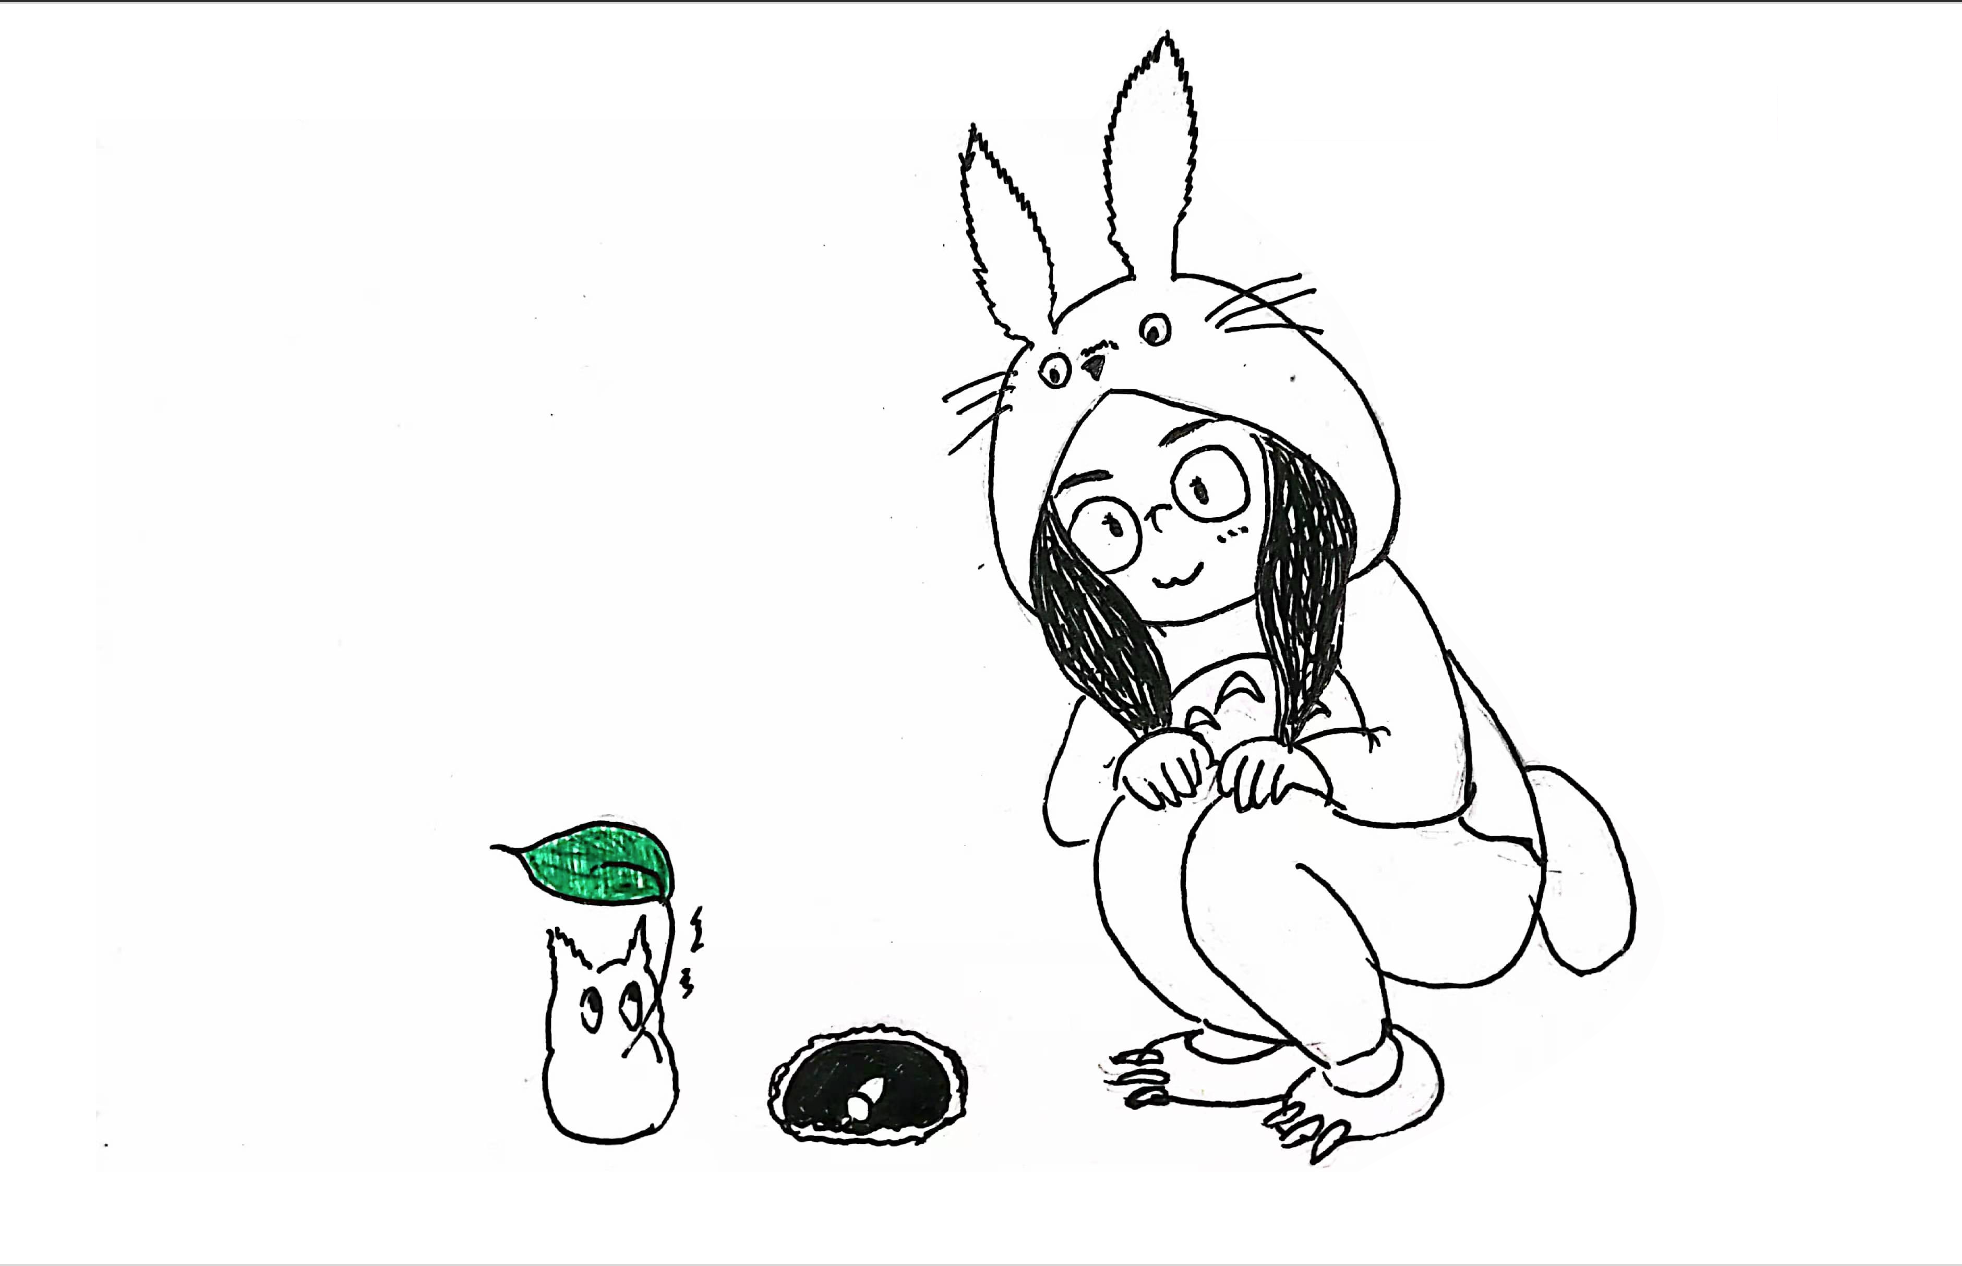
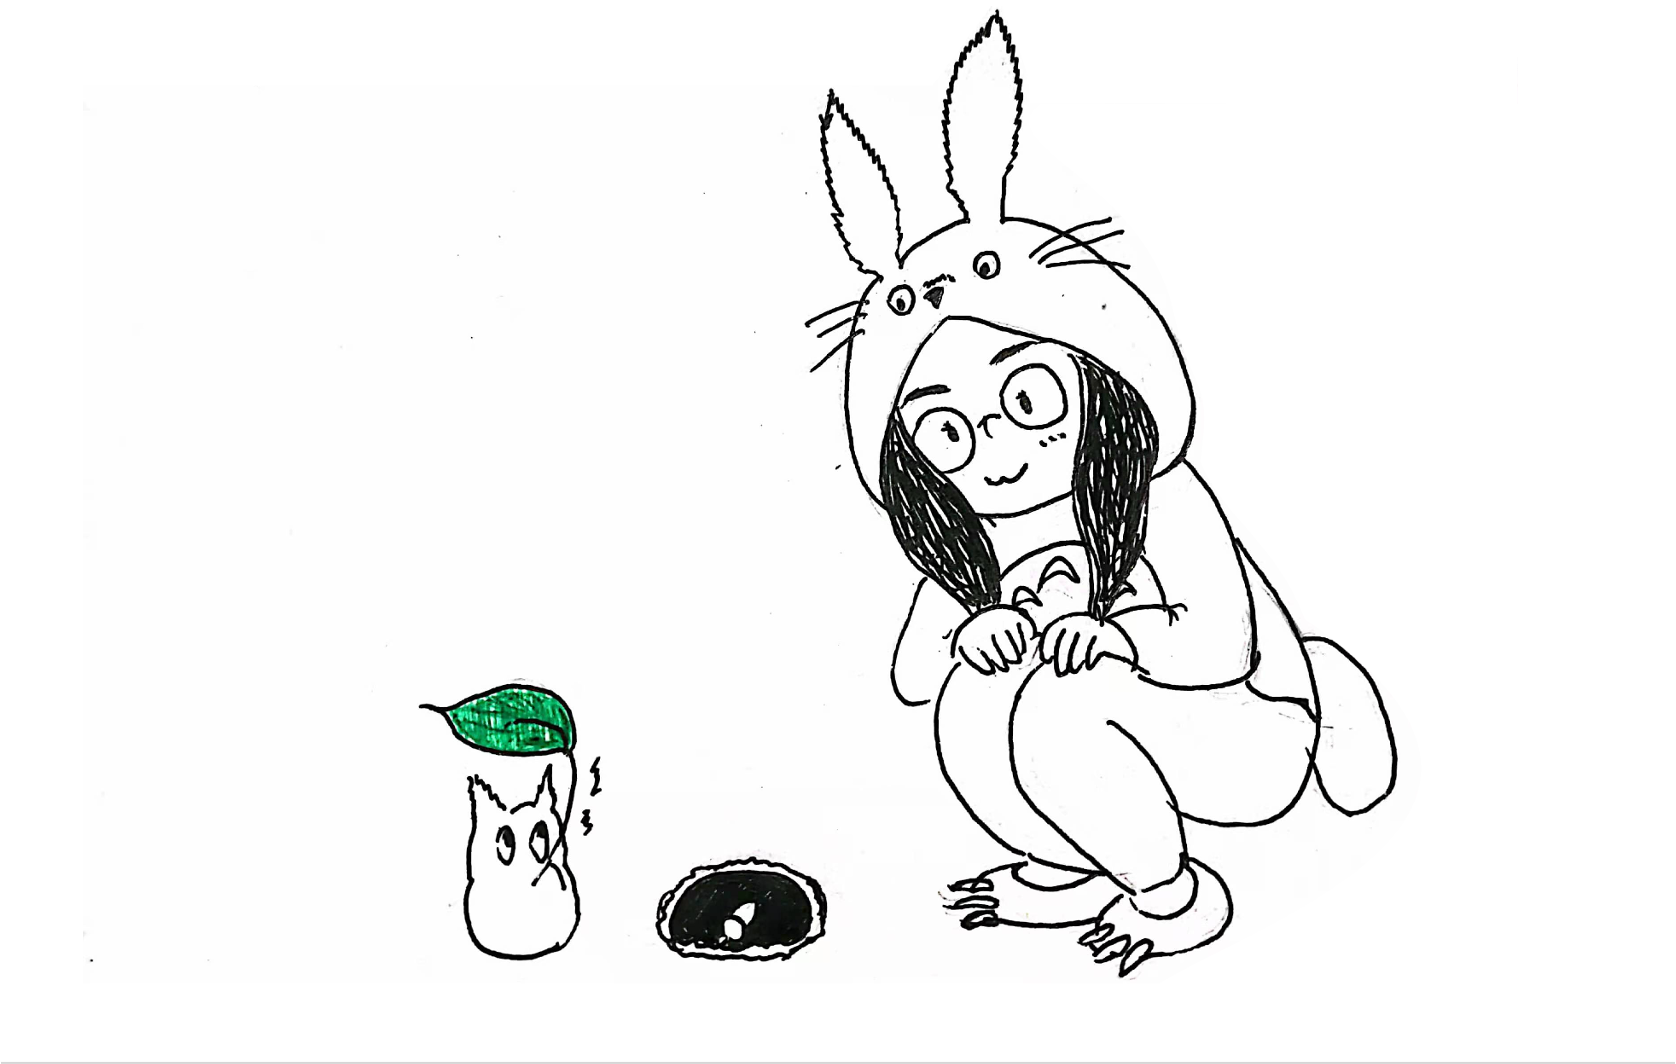
Website update_2

diff --git a/index.html b/index.html
@@ -46,7 +46,7 @@
           </header>
       <section>
       <h3>&nbsp;&nbsp;&nbsp;&nbsp;&nbsp;&nbsp;&nbsp;&nbsp;&nbsp;
-      <img src="My first year of PhD.jpg" height="370" width="700"></h3>
+      <img src="My first year of PhD.jpg" height="300" width="800"></h3>
           <p>I'm doing my Ph.D. in Information Studies at <a href="https://www.ischool.utexas.edu/" class="author-social" target="_blank" rel="noopener noreferrer">UT iSchool</a>. My research interest lies in the intersection of human information behavior, technology, and health. Based on information behavior theories, I want to design technologies that can support people's healthy life. Especially, I am interested in technologies for elders, as <b>everyone is getting old, what I do today can help understand and find a better way for the future of people I love (e.g., my parents) and myself.</b></p>
           <p>I like Totoro, a kind and cute big "cat" from <a href="https://en.wikipedia.org/wiki/My_Neighbor_Totoro" target="_blank" rel="noopener noreferrer">My Neighbor Totoro</a>. See the picture in this page? That's me, wearing a Totoro hoodi and planting a seed with another little Totoro. The little Totoro is casting his magic on the seed to make it become a big tree, where people can sit, relax, and feel happy. The seed represents my start point of academic career, I hope my research somehow can contribute to people's wellbeing.</p>
           <p>I enjoy a lot of things apart from research, such as cooking, playing the piano, exercise (3-4 km per day, I recently changed to do Pamela), writing. I love broad types of music, mainly J-POP, Rock-N-Roll, musical drama, and piano. I write articles in English at <a href="https://esperamita.medium.com/" target="_blank" rel="noopener noreferrer">Medium</a> and in Chinese at <a href="https://www.zhihu.com/people/A.faramita.A" class="author-social" target="_blank" rel="noopener noreferrer">Zhihu</a>.</p>

diff --git a/research.html b/research.html
@@ -36,11 +36,11 @@
       outline: none;
       font-size: 100%;
       transition: 0.3s;
-      background-color: #F0F2F2;
+      background-color: #FEFEFE;
       color:#254B59;
       }
       button.accordion.active, button.accordion:hover {
-      background-color: #F0F2F2;
+      background-color: #FEFEFE;
       color:#254B59
       }
       button.accordion:after {
@@ -59,7 +59,7 @@
       padding: 0 20px;
       margin-top: 5px;
       display: none;
-      background-color: #F0F2F2;
+      background-color: #FEFEFE;
       font-size: 100%;
       }
       div.panel.show {

diff --git a/stylesheet/styles.css b/stylesheet/styles.css
@@ -1,5 +1,5 @@
 body {
-  background-color: #F0F2F2;
+  background-color: #FEFEFE;
   padding:50px;
   font: 16px/1.5 -apple-system, BlinkMacSystemFont, "Segoe UI", Roboto, Oxygen, Ubuntu, Cantarell, "Fira Sans", "Droid Sans", "Helvetica Neue", Arial, sans-serif, "Apple Color Emoji", "Segoe UI Emoji", "Segoe UI Symbol";
   color:#254B59;
